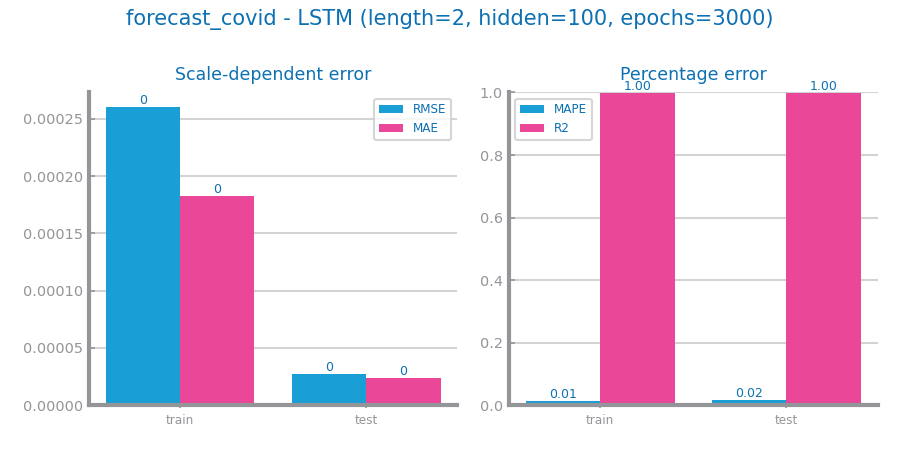
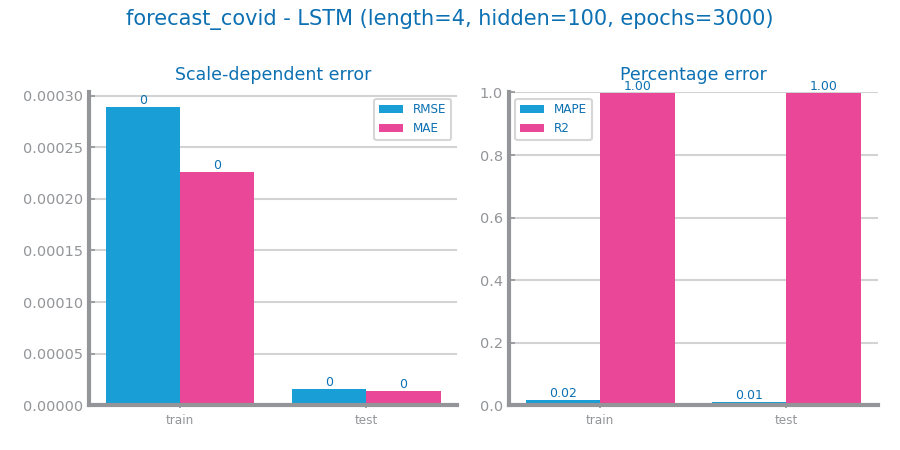
Added LSTM plots

diff --git a/forecasting/models/traffic/lstms.py b/forecasting/models/traffic/lstms.py
@@ -17,6 +17,10 @@ series: Series = traffic_data[target]
 train, test = series_train_test_split(series, trn_pct=0.90)
 
 best_model, best_params = lstm_study(train, test, nr_episodes=3000, measure=measure)
+plt.tight_layout()
+plt.savefig(f"images/{traffic_file_tag}_lstms_{measure}_study.png")
+plt.show()
+plt.clf()
 
 params = best_params["params"]
 best_length = params[0]

diff --git a/forecasting/models/covid/lstms.py b/forecasting/models/covid/lstms.py
@@ -17,6 +17,10 @@ series: Series = covid_data[target]
 train, test = series_train_test_split(series, trn_pct=0.90)
 
 best_model, best_params = lstm_study(train, test, nr_episodes=3000, measure=measure)
+plt.tight_layout()
+plt.savefig(f"images/{covid_file_tag}_lstms_{measure}_study.png")
+plt.show()
+plt.clf()
 
 params = best_params["params"]
 best_length = params[0]
